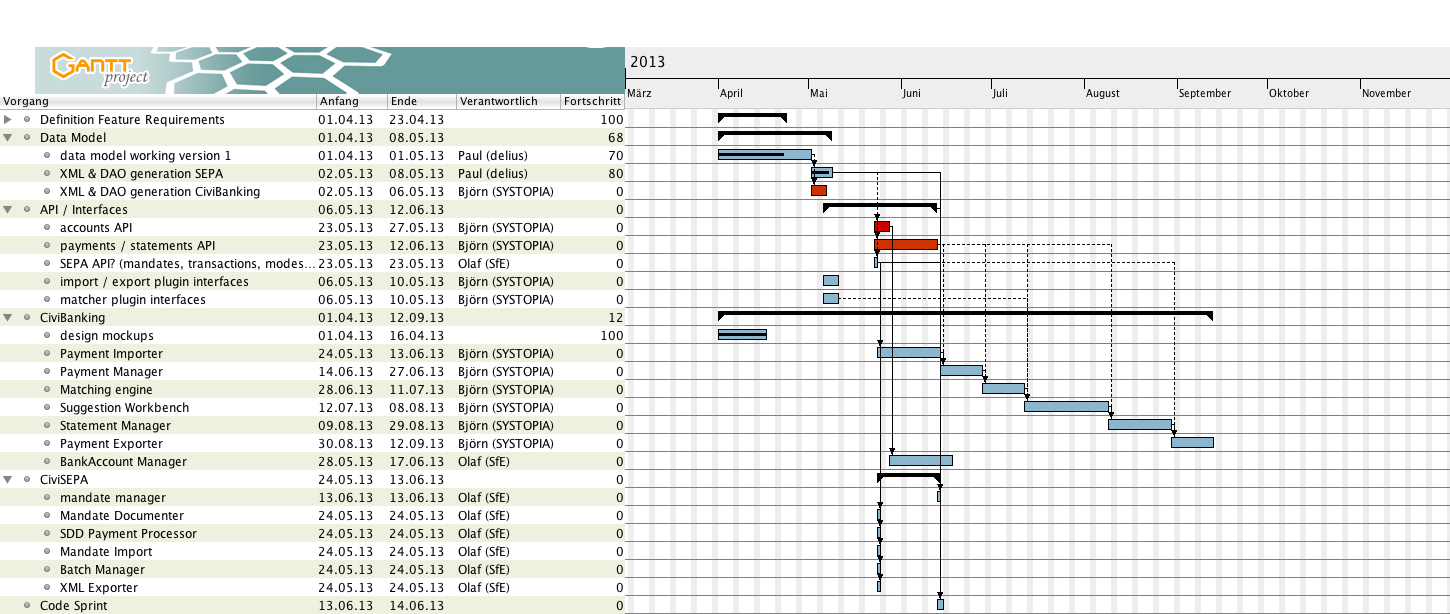
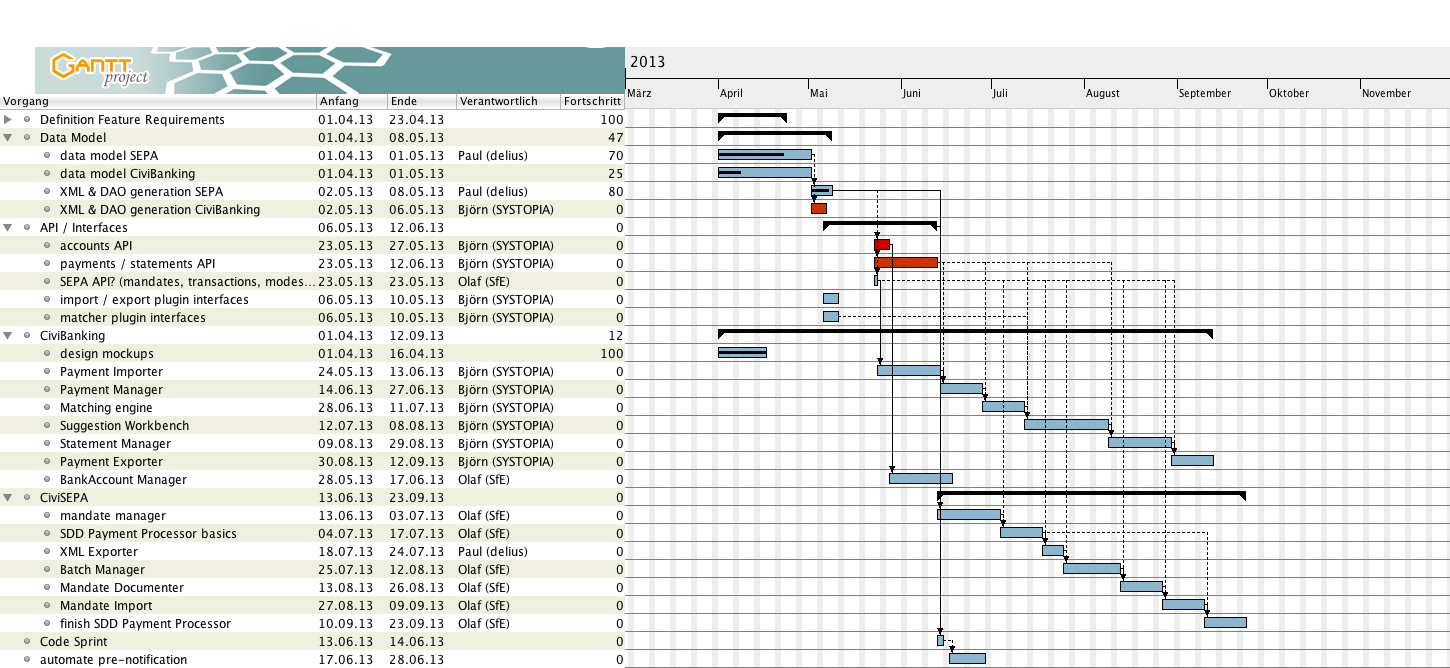
Updated project plan (Fabian Schuttenberg)

diff --git a/doc/project_mgmt/project 60-tasks.html b/doc/project_mgmt/project 60-tasks.html
@@ -256,14 +256,14 @@ h5.header {
 <div style="margin:0; padding:0; padding-left:0.5em"></div>
 </td><td valign="top" class="cell">
 <div style="margin:0; padding:0; padding-left:0.5em">
-<div style="margin: 0; padding: 0;">68</div>
+<div style="margin: 0; padding: 0;">47</div>
 </div>
 </td><td valign="top" class="cell"></td>
 </tr>
 <tr>
 <td valign="top" class="cell">
 <div style="margin:0; padding:0; padding-left:0.5em">
-<div style="margin: 0; padding: 0;">data model working version 1</div>
+<div style="margin: 0; padding: 0;">data model SEPA</div>
 </div>
 </td><td valign="top" class="cell">
 <div style="margin:0; padding:0; padding-left:0.5em">
@@ -282,6 +282,27 @@ h5.header {
 <div style="margin: 0; padding: 0;">70</div>
 </div>
 </td><td valign="top" class="cell">Paul (delius)</td>
+</tr>
+<tr>
+<td valign="top" class="cell">
+<div style="margin:0; padding:0; padding-left:0.5em">
+<div style="margin: 0; padding: 0;">data model CiviBanking</div>
+</div>
+</td><td valign="top" class="cell">
+<div style="margin:0; padding:0; padding-left:0.5em">
+<div style="margin: 0; padding: 0;">01.04.13</div>
+</div>
+</td><td valign="top" class="cell">
+<div style="margin:0; padding:0; padding-left:0.5em">
+<div style="margin: 0; padding: 0;">01.05.13</div>
+</div>
+</td><td valign="top" class="cell">
+<div style="margin:0; padding:0; padding-left:0.5em"></div>
+</td><td valign="top" class="cell">
+<div style="margin:0; padding:0; padding-left:0.5em">
+<div style="margin: 0; padding: 0;">25</div>
+</div>
+</td><td valign="top" class="cell"></td>
 </tr>
 <tr>
 <td valign="top" class="cell">
@@ -675,11 +696,11 @@ h5.header {
 </div>
 </td><td valign="top" class="cell">
 <div style="margin:0; padding:0; padding-left:0.5em">
-<div style="margin: 0; padding: 0;">24.05.13</div>
+<div style="margin: 0; padding: 0;">13.06.13</div>
 </div>
 </td><td valign="top" class="cell">
 <div style="margin:0; padding:0; padding-left:0.5em">
-<div style="margin: 0; padding: 0;">13.06.13</div>
+<div style="margin: 0; padding: 0;">23.09.13</div>
 </div>
 </td><td valign="top" class="cell">
 <div style="margin:0; padding:0; padding-left:0.5em"></div>
@@ -700,7 +721,7 @@ h5.header {
 </div>
 </td><td valign="top" class="cell">
 <div style="margin:0; padding:0; padding-left:0.5em">
-<div style="margin: 0; padding: 0;">13.06.13</div>
+<div style="margin: 0; padding: 0;">03.07.13</div>
 </div>
 </td><td valign="top" class="cell">
 <div style="margin:0; padding:0; padding-left:0.5em">
@@ -715,84 +736,15 @@ h5.header {
 <tr>
 <td valign="top" class="cell">
 <div style="margin:0; padding:0; padding-left:0.5em">
-<div style="margin: 0; padding: 0;">Mandate Documenter</div>
+<div style="margin: 0; padding: 0;">SDD Payment Processor basics</div>
 </div>
 </td><td valign="top" class="cell">
 <div style="margin:0; padding:0; padding-left:0.5em">
-<div style="margin: 0; padding: 0;">24.05.13</div>
+<div style="margin: 0; padding: 0;">04.07.13</div>
 </div>
 </td><td valign="top" class="cell">
 <div style="margin:0; padding:0; padding-left:0.5em">
-<div style="margin: 0; padding: 0;">24.05.13</div>
-</div>
-</td><td valign="top" class="cell">
-<div style="margin:0; padding:0; padding-left:0.5em">
-<div style="margin: 0; padding: 0;">Olaf (SfE)</div>
-</div>
-</td><td valign="top" class="cell">
-<div style="margin:0; padding:0; padding-left:0.5em">
-<div style="margin: 0; padding: 0;">0</div>
-</div>
-</td><td valign="top" class="cell">Olaf (SfE)</td>
-</tr>
-<tr>
-<td valign="top" class="cell">
-<div style="margin:0; padding:0; padding-left:0.5em">
-<div style="margin: 0; padding: 0;">SDD Payment Processor</div>
-</div>
-</td><td valign="top" class="cell">
-<div style="margin:0; padding:0; padding-left:0.5em">
-<div style="margin: 0; padding: 0;">24.05.13</div>
-</div>
-</td><td valign="top" class="cell">
-<div style="margin:0; padding:0; padding-left:0.5em">
-<div style="margin: 0; padding: 0;">24.05.13</div>
-</div>
-</td><td valign="top" class="cell">
-<div style="margin:0; padding:0; padding-left:0.5em">
-<div style="margin: 0; padding: 0;">Olaf (SfE)</div>
-</div>
-</td><td valign="top" class="cell">
-<div style="margin:0; padding:0; padding-left:0.5em">
-<div style="margin: 0; padding: 0;">0</div>
-</div>
-</td><td valign="top" class="cell">Olaf (SfE)</td>
-</tr>
-<tr>
-<td valign="top" class="cell">
-<div style="margin:0; padding:0; padding-left:0.5em">
-<div style="margin: 0; padding: 0;">Mandate Import</div>
-</div>
-</td><td valign="top" class="cell">
-<div style="margin:0; padding:0; padding-left:0.5em">
-<div style="margin: 0; padding: 0;">24.05.13</div>
-</div>
-</td><td valign="top" class="cell">
-<div style="margin:0; padding:0; padding-left:0.5em">
-<div style="margin: 0; padding: 0;">24.05.13</div>
-</div>
-</td><td valign="top" class="cell">
-<div style="margin:0; padding:0; padding-left:0.5em">
-<div style="margin: 0; padding: 0;">Olaf (SfE)</div>
-</div>
-</td><td valign="top" class="cell">
-<div style="margin:0; padding:0; padding-left:0.5em">
-<div style="margin: 0; padding: 0;">0</div>
-</div>
-</td><td valign="top" class="cell">Olaf (SfE)</td>
-</tr>
-<tr>
-<td valign="top" class="cell">
-<div style="margin:0; padding:0; padding-left:0.5em">
-<div style="margin: 0; padding: 0;">Batch Manager</div>
-</div>
-</td><td valign="top" class="cell">
-<div style="margin:0; padding:0; padding-left:0.5em">
-<div style="margin: 0; padding: 0;">24.05.13</div>
-</div>
-</td><td valign="top" class="cell">
-<div style="margin:0; padding:0; padding-left:0.5em">
-<div style="margin: 0; padding: 0;">24.05.13</div>
+<div style="margin: 0; padding: 0;">17.07.13</div>
 </div>
 </td><td valign="top" class="cell">
 <div style="margin:0; padding:0; padding-left:0.5em">
@@ -811,11 +763,103 @@ h5.header {
 </div>
 </td><td valign="top" class="cell">
 <div style="margin:0; padding:0; padding-left:0.5em">
-<div style="margin: 0; padding: 0;">24.05.13</div>
+<div style="margin: 0; padding: 0;">18.07.13</div>
 </div>
 </td><td valign="top" class="cell">
 <div style="margin:0; padding:0; padding-left:0.5em">
-<div style="margin: 0; padding: 0;">24.05.13</div>
+<div style="margin: 0; padding: 0;">24.07.13</div>
+</div>
+</td><td valign="top" class="cell">
+<div style="margin:0; padding:0; padding-left:0.5em">
+<div style="margin: 0; padding: 0;">Paul (delius)</div>
+</div>
+</td><td valign="top" class="cell">
+<div style="margin:0; padding:0; padding-left:0.5em">
+<div style="margin: 0; padding: 0;">0</div>
+</div>
+</td><td valign="top" class="cell">Paul (delius), Olaf (SfE)</td>
+</tr>
+<tr>
+<td valign="top" class="cell">
+<div style="margin:0; padding:0; padding-left:0.5em">
+<div style="margin: 0; padding: 0;">Batch Manager</div>
+</div>
+</td><td valign="top" class="cell">
+<div style="margin:0; padding:0; padding-left:0.5em">
+<div style="margin: 0; padding: 0;">25.07.13</div>
+</div>
+</td><td valign="top" class="cell">
+<div style="margin:0; padding:0; padding-left:0.5em">
+<div style="margin: 0; padding: 0;">12.08.13</div>
+</div>
+</td><td valign="top" class="cell">
+<div style="margin:0; padding:0; padding-left:0.5em">
+<div style="margin: 0; padding: 0;">Olaf (SfE)</div>
+</div>
+</td><td valign="top" class="cell">
+<div style="margin:0; padding:0; padding-left:0.5em">
+<div style="margin: 0; padding: 0;">0</div>
+</div>
+</td><td valign="top" class="cell">Olaf (SfE)</td>
+</tr>
+<tr>
+<td valign="top" class="cell">
+<div style="margin:0; padding:0; padding-left:0.5em">
+<div style="margin: 0; padding: 0;">Mandate Documenter</div>
+</div>
+</td><td valign="top" class="cell">
+<div style="margin:0; padding:0; padding-left:0.5em">
+<div style="margin: 0; padding: 0;">13.08.13</div>
+</div>
+</td><td valign="top" class="cell">
+<div style="margin:0; padding:0; padding-left:0.5em">
+<div style="margin: 0; padding: 0;">26.08.13</div>
+</div>
+</td><td valign="top" class="cell">
+<div style="margin:0; padding:0; padding-left:0.5em">
+<div style="margin: 0; padding: 0;">Olaf (SfE)</div>
+</div>
+</td><td valign="top" class="cell">
+<div style="margin:0; padding:0; padding-left:0.5em">
+<div style="margin: 0; padding: 0;">0</div>
+</div>
+</td><td valign="top" class="cell">Olaf (SfE)</td>
+</tr>
+<tr>
+<td valign="top" class="cell">
+<div style="margin:0; padding:0; padding-left:0.5em">
+<div style="margin: 0; padding: 0;">Mandate Import</div>
+</div>
+</td><td valign="top" class="cell">
+<div style="margin:0; padding:0; padding-left:0.5em">
+<div style="margin: 0; padding: 0;">27.08.13</div>
+</div>
+</td><td valign="top" class="cell">
+<div style="margin:0; padding:0; padding-left:0.5em">
+<div style="margin: 0; padding: 0;">09.09.13</div>
+</div>
+</td><td valign="top" class="cell">
+<div style="margin:0; padding:0; padding-left:0.5em">
+<div style="margin: 0; padding: 0;">Olaf (SfE)</div>
+</div>
+</td><td valign="top" class="cell">
+<div style="margin:0; padding:0; padding-left:0.5em">
+<div style="margin: 0; padding: 0;">0</div>
+</div>
+</td><td valign="top" class="cell">Olaf (SfE)</td>
+</tr>
+<tr>
+<td valign="top" class="cell">
+<div style="margin:0; padding:0; padding-left:0.5em">
+<div style="margin: 0; padding: 0;">finish SDD Payment Processor</div>
+</div>
+</td><td valign="top" class="cell">
+<div style="margin:0; padding:0; padding-left:0.5em">
+<div style="margin: 0; padding: 0;">10.09.13</div>
+</div>
+</td><td valign="top" class="cell">
+<div style="margin:0; padding:0; padding-left:0.5em">
+<div style="margin: 0; padding: 0;">23.09.13</div>
 </div>
 </td><td valign="top" class="cell">
 <div style="margin:0; padding:0; padding-left:0.5em">
@@ -848,6 +892,27 @@ h5.header {
 </div>
 </td><td valign="top" class="cell"></td>
 </tr>
+<tr>
+<td valign="top" class="cell">
+<div style="margin:0; padding:0; padding-left:0em">
+<div style="margin: 0; padding: 0;">automate pre-notification</div>
+</div>
+</td><td valign="top" class="cell">
+<div style="margin:0; padding:0; padding-left:0.5em">
+<div style="margin: 0; padding: 0;">17.06.13</div>
+</div>
+</td><td valign="top" class="cell">
+<div style="margin:0; padding:0; padding-left:0.5em">
+<div style="margin: 0; padding: 0;">28.06.13</div>
+</div>
+</td><td valign="top" class="cell">
+<div style="margin:0; padding:0; padding-left:0.5em"></div>
+</td><td valign="top" class="cell">
+<div style="margin:0; padding:0; padding-left:0.5em">
+<div style="margin: 0; padding: 0;">0</div>
+</div>
+</td><td valign="top" class="cell"></td>
+</tr>
 </table>
 </center>
 <br>
@@ -855,7 +920,7 @@ h5.header {
 <tr>
 <td bgcolor="#6d9ec6" width="50%"><font color="#FFFFFF"><b>Ganttproject (2.0.10)</b></font></td><td bgcolor="#6d9ec6" width="50%" align="right"><b><a href="http://ganttproject.biz">ganttproject.biz</a></b>
 <br>
-<b>30.04.13 - 11:01:28</b></td>
+<b>10.05.13 - 10:53:18</b></td>
 </tr>
 </table>
 </body>

diff --git a/doc/project_mgmt/project 60-resources.html b/doc/project_mgmt/project 60-resources.html
@@ -160,6 +160,9 @@ h5.header {
 <tr>
 <td valign="top" class="cell">Joe (JMA Consulting)</td>
 </tr>
+<tr>
+<td valign="top" class="cell">Fabian (SYSTOPIA)</td>
+</tr>
 </table>
 <br>
 <br>
@@ -170,7 +173,7 @@ h5.header {
 <tr>
 <td bgcolor="#6d9ec6" width="50%"><font color="#FFFFFF"><b>Ganttproject (2.0.10)</b></font></td><td bgcolor="#6d9ec6" width="50%" align="right"><b><a href="http://ganttproject.biz">ganttproject.biz</a></b>
 <br>
-<b>30.04.13 - 11:01:29</b></td>
+<b>10.05.13 - 10:53:18</b></td>
 </tr>
 </table>
 </body>

diff --git a/doc/project_mgmt/project 60-chart.html b/doc/project_mgmt/project 60-chart.html
@@ -122,7 +122,7 @@ div.page_links {
 <tr>
 <td bgcolor="#6d9ec6" width="50%"><font color="#FFFFFF"><b>Ganttproject (2.0.10)</b></font></td><td bgcolor="#6d9ec6" width="50%" align="right"><b><a href="http://ganttproject.biz">ganttproject.biz</a></b>
 <br>
-<b>30.04.13 - 11:01:29</b></td>
+<b>10.05.13 - 10:53:18</b></td>
 </tr>
 </table>
 </body>

diff --git a/doc/project_mgmt/project 60.html b/doc/project_mgmt/project 60.html
@@ -152,7 +152,7 @@ div.page_links {
 <tr>
 <td bgcolor="#6d9ec6" width="50%"><font color="#FFFFFF"><b>Ganttproject (2.0.10)</b></font></td><td bgcolor="#6d9ec6" width="50%" align="right"><b><a href="http://ganttproject.biz">ganttproject.biz</a></b>
 <br>
-<b>30.04.13 - 11:01:28</b></td>
+<b>10.05.13 - 10:53:17</b></td>
 </tr>
 </table>
 </body>
